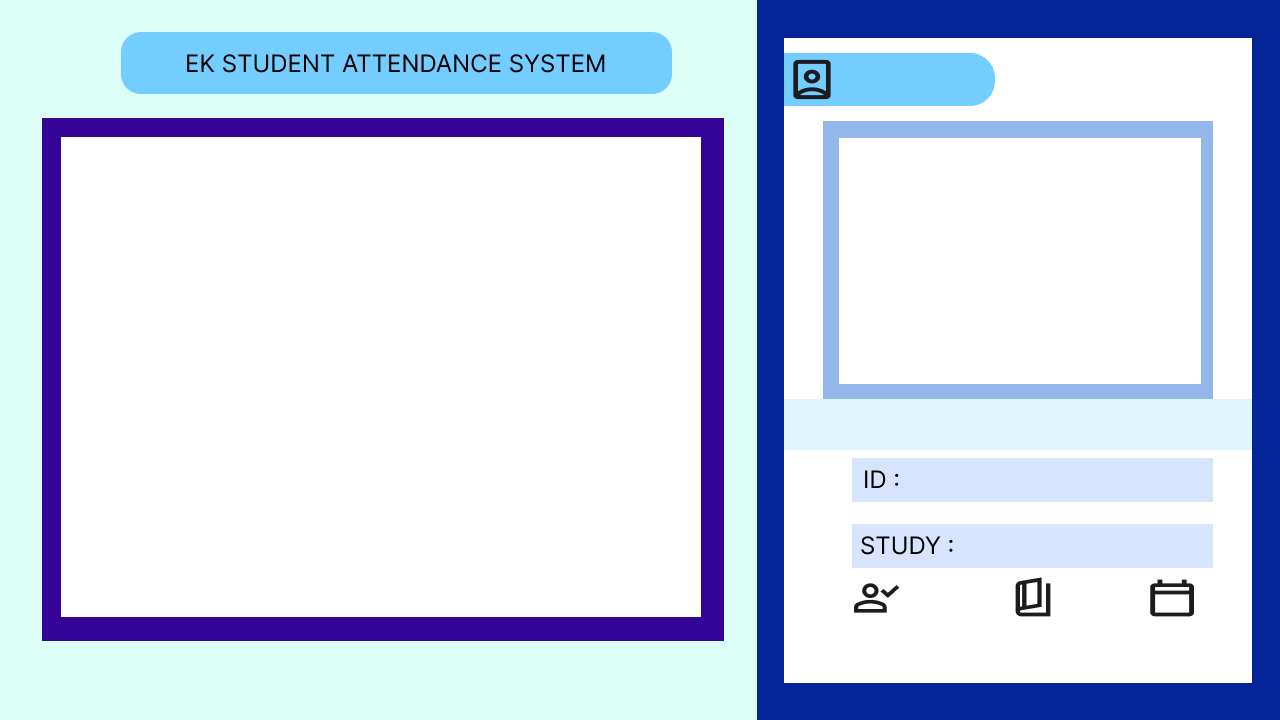
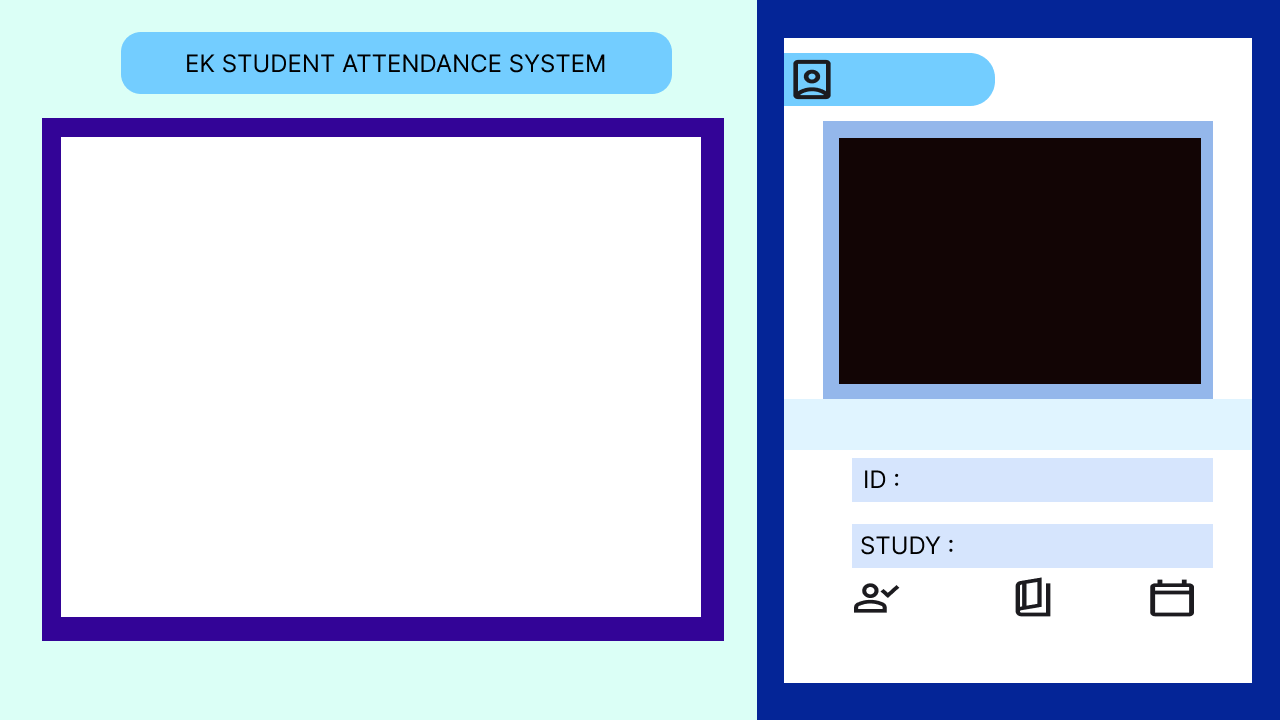
28/11/2023 13.15

Changed region(s): [[0.6562, 0.1833, 0.9375, 0.55]]

diff --git a/main.py b/main.py
@@ -46,7 +46,6 @@ encodeListKnown, studentIds = encodeListKnownWithIds
 print(studentIds)
 print("Encode Files Loaded")
 
-
 modeType = 0
 counter = 0
 id = -1
@@ -78,41 +77,45 @@ while True:
 
         # If the minimum value from matchIndex matches our face, it will output Known face detected
         if matches[matchIndex]:
-            #print("Known face detected")
+            # print("Known face detected")
 
-            #print(studentIds[matchIndex]) # Now we will output the id of the student of the matched face
+            # print(studentIds[matchIndex]) # Now we will output the id of the student of the matched face
 
             y1, x2, y2, x1 = faceLocation
             y1, x2, y2, x1 = y1 * 4, x2 * 4, y2 * 4, x1 * 4
-            bbox = 61 + x1, 137 + y1, x2 - x1, y2 - y1 # here we use the measurements of the imgBackground
+            bbox = 61 + x1, 137 + y1, x2 - x1, y2 - y1  # here we use the measurements of the imgBackground
             imgBackground = cvzone.cornerRect(imgBackground, bbox, rt=0)
 
             id = studentIds[matchIndex]
-            if counter == 0 :
-                counter =1
+            if counter == 0:
+                counter = 1
                 modeType = 1
     if counter != 0:
 
         # above we have set counter = 0. Once theres a face match, counter will chance to 1 ( only once)
         # once counter ==1, it will get the Students id and prints student info
 
-        if counter ==1:
-
+        if counter == 1:
             # Gets the student info (data)
             studentInfo = db.reference(f'Students/{id}').get()
             print(studentInfo)
 
+            # This is output the image that we need
             blob = bucket.get_blob(f'Images/{id}.png')
+            array = np.frombuffer(blob.download_as_string(), np.uint8)
+            imageStudent = cv2.imdecode(array, cv2.COLOR_BGRA2BGR)
 
+            #Resize image automatically
+            imageStudent = cv2.resize(imageStudent, (362, 245))
 
 
         # here we are positioning the data accordingly
-        cv2.putText(imgBackground,str(studentInfo['Total_attendance']),(868,88), # the position
-                    cv2.FONT_HERSHEY_COMPLEX,0.8,(0,0,0),2)
-        cv2.putText(imgBackground,str(studentInfo['Major']),(973,548), # the position
-                    cv2.FONT_HERSHEY_COMPLEX,0.8,(0,0,0),2)
-        cv2.putText(imgBackground,str(id),(916,485), # the position
-                    cv2.FONT_HERSHEY_COMPLEX,0.8,(0,0,0),2)
+        cv2.putText(imgBackground, str(studentInfo['Total_attendance']), (868, 88),  # the position
+                    cv2.FONT_HERSHEY_COMPLEX, 0.8, (0, 0, 0), 2)
+        cv2.putText(imgBackground, str(studentInfo['Major']), (973, 548),  # the position
+                    cv2.FONT_HERSHEY_COMPLEX, 0.8, (0, 0, 0), 2)
+        cv2.putText(imgBackground, str(id), (916, 485),  # the position
+                    cv2.FONT_HERSHEY_COMPLEX, 0.8, (0, 0, 0), 2)
         cv2.putText(imgBackground, str(studentInfo['Standing']), (983, 655),  # the position
                     cv2.FONT_HERSHEY_COMPLEX, 0.7, (0, 0, 0), 1)
         cv2.putText(imgBackground, str(studentInfo['Year']), (853, 655),  # the position
@@ -120,18 +123,15 @@ while True:
         cv2.putText(imgBackground, str(studentInfo['Enrolling_Year']), (1113, 655),  # the position
                     cv2.FONT_HERSHEY_COMPLEX, 0.7, (0, 0, 0), 1)
 
-        #centering the name
-        (w,h), _ = cv2.getTextSize(studentInfo['Name'],cv2.FONT_HERSHEY_COMPLEX,0.8,2)
-        offset = (468-w)//2
-        cv2.putText(imgBackground, str(studentInfo['Name']), (805+offset, 427),  # the position
+        # centering the name
+        (w, h), _ = cv2.getTextSize(studentInfo['Name'], cv2.FONT_HERSHEY_COMPLEX, 0.8, 2)
+        offset = (468 - w) // 2
+        cv2.putText(imgBackground, str(studentInfo['Name']), (805 + offset, 427),  # the position
                     cv2.FONT_HERSHEY_COMPLEX, 0.8, (0, 0, 0), 2)
 
-        counter +=1
-
-
-
-
-
+        # Here we call the image to display
+        imgBackground[138:138 + 245, 840:840 + 362] = imageStudent
+        counter += 1
 
     cv2.imshow("Face Attendance", imgBackground)
     #  imgBackground[y_offset:y_offset + region_height, x_offset:x_offset + region_width] = img
@@ -140,8 +140,6 @@ while True:
     # imgModeList[0] = Full details, imgModeList[1] = Active, imgModeList[2] = Marked, imgModeList[3] = Already Marked
     # here we are joining Image from the Modes to the main (background)
     imgBackground[0:0 + 720, 757:757 + 523] = imgModeList[modeType]
-
-
 
     # Exit on 'q' key press
     if cv2.waitKey(1) & 0xFF == ord('q'):
